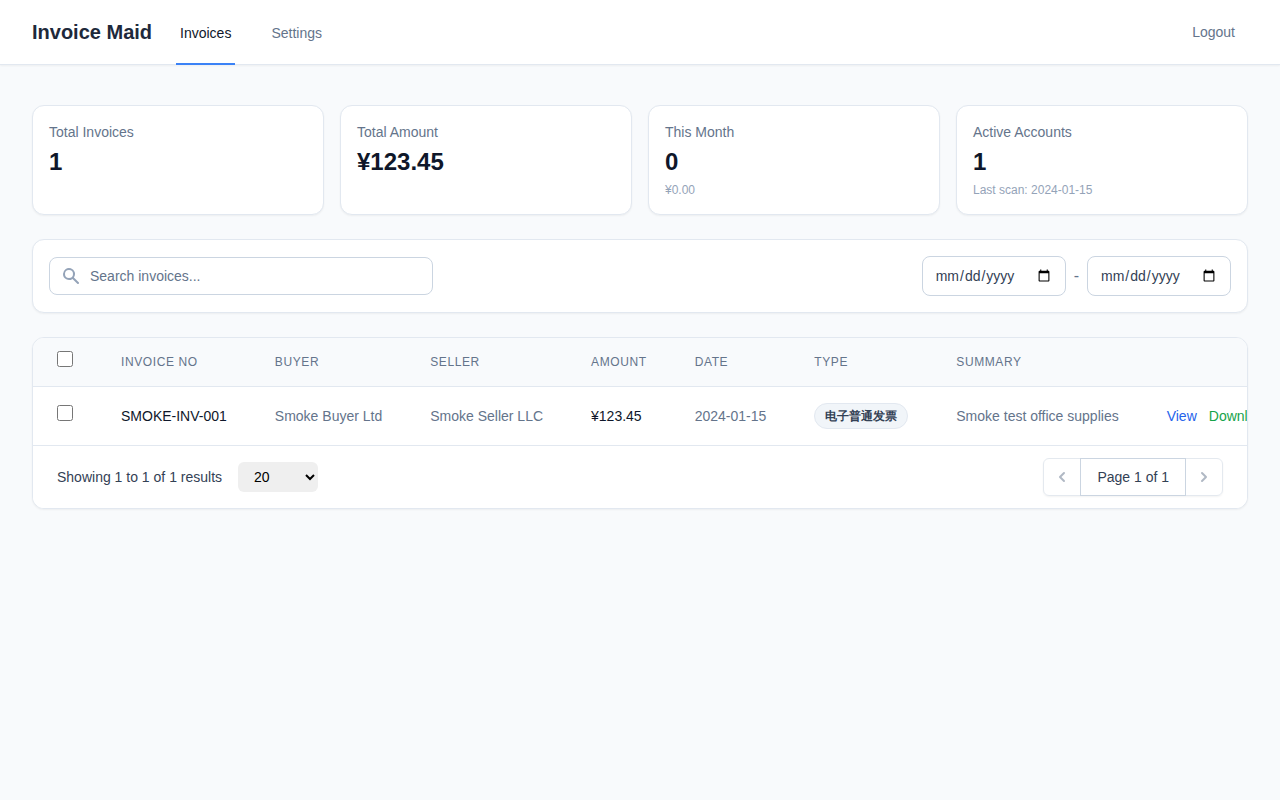
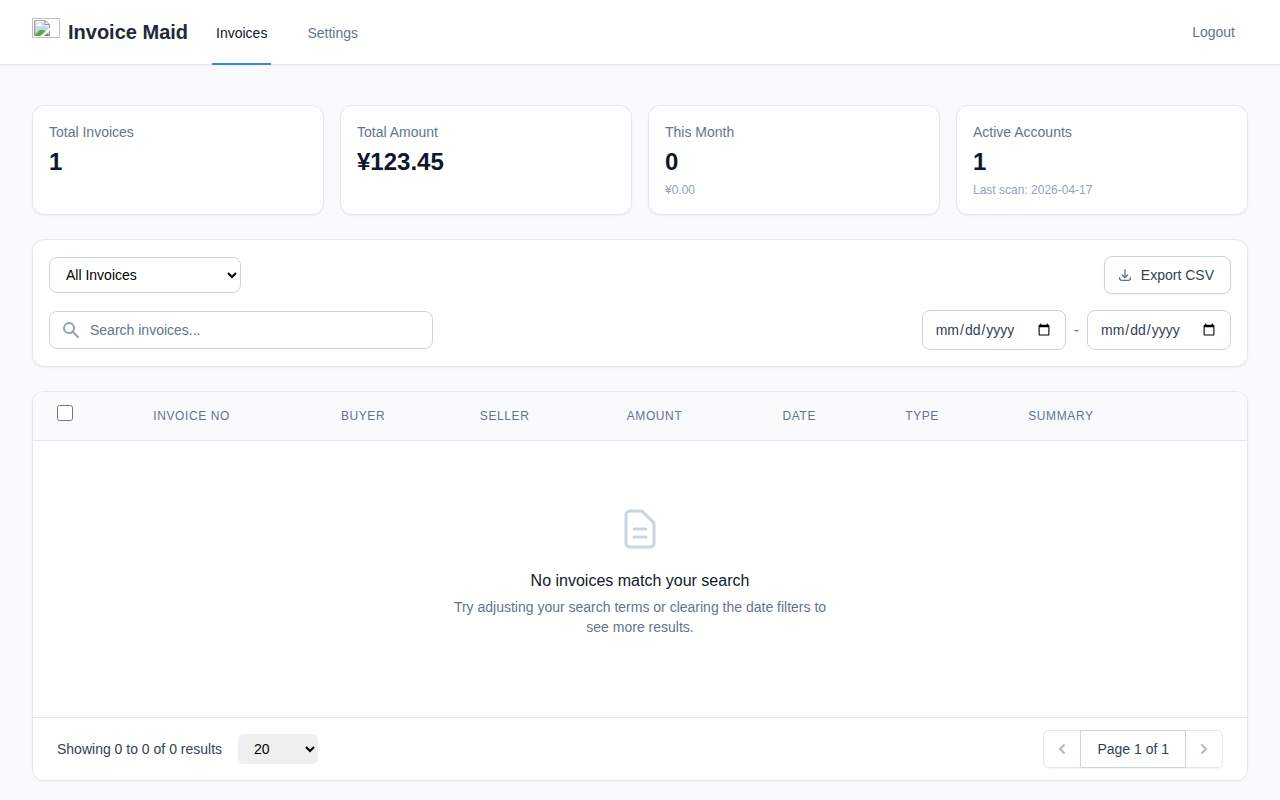
docs: rewrite README for v0.2.0 with AI settings screenshot and full feature coverage
Ultraworked with [Sisyphus](https://github.com/code-yeongyu/oh-my-openagent)

diff --git a/README.md b/README.md
@@ -14,6 +14,7 @@
 </p>
 
 <p align="center">
+  <img src="https://img.shields.io/badge/version-0.2.0-blue" alt="v0.2.0">
   <img src="https://img.shields.io/badge/Python-3.11%2B-3776AB?logo=python&logoColor=white" alt="Python 3.11+">
   <img src="https://img.shields.io/badge/FastAPI-Backend-009688?logo=fastapi&logoColor=white" alt="FastAPI">
   <img src="https://img.shields.io/badge/Vue-3-42B883?logo=vue.js&logoColor=white" alt="Vue 3">
@@ -29,9 +30,9 @@ Invoice Maid automates the boring part of invoice handling:
 
 - Pull invoice emails from **IMAP**, **POP3**, **QQ Mail**, and **Microsoft Outlook**
 - Use an **OpenAI-compatible LLM** to classify emails and extract invoice fields
-- Parse **PDF**, **XML**, and **OFD (数电票)** invoice formats
-- Search and review invoices from a modern web UI
-- Download one invoice or export many as a ZIP
+- Parse **PDF**, **XML**, and **OFD (数电票)** invoice formats — including download links in email body
+- Search, review, correct, and export invoices from a modern web UI
+- Download one invoice, batch-export as ZIP, or export filtered lists as CSV
 
 It is designed for **single-user**, **self-hosted** deployment with minimal operational overhead.
 
@@ -46,8 +47,10 @@ It is designed for **single-user**, **self-hosted** deployment with minimal oper
 - [Quick Start](#quick-start)
 - [Configuration Reference](#configuration-reference)
 - [Email Account Setup](#email-account-setup)
+- [Webhooks](#webhooks)
 - [Deployment](#deployment)
 - [Development](#development)
+- [Roadmap](#roadmap)
 - [License](#license)
 
 ---
@@ -55,20 +58,32 @@ It is designed for **single-user**, **self-hosted** deployment with minimal oper
 ## Features
 
 ### Email ingestion
-- **Automated Email Scanning**: Supports IMAP, POP3, QQ Mail (via auth code), and Microsoft Outlook (via OAuth2 device code flow).
-- **Scheduled Processing**: Configurable periodic scanning intervals with APScheduler.
+- **Automated Email Scanning** — IMAP, POP3, QQ Mail (via auth code), Microsoft Outlook (OAuth2 device code flow)
+- **Scheduled Processing** — configurable scan intervals via APScheduler
+- **Body Link Downloads** — follows download links in email body to retrieve invoices
+- **Extraction Audit Log** — per-email tracking of why each message was saved, skipped, or failed
 
 ### Invoice intelligence
-- **AI Classification & Extraction**: Uses OpenAI-compatible LLMs to classify emails and extract structured data from invoices.
-- **Multi-format Support**: Handles PDF, XML, and OFD (数电票) invoice formats.
-- **QR Code Decoding**: Decodes QR codes from Chinese VAT invoices for accurate field mapping.
-- **Structured Data**: Extracts buyer, seller, total amount, date, invoice type, and AI-summarized item descriptions.
+- **AI Classification & Extraction** — OpenAI-compatible LLMs classify emails and extract structured invoice data
+- **Multi-format Parsing** — PDF, XML, and OFD (数电票) with QR code decoding
+- **Manual Correction** — edit any extracted field inline with a full audit trail
+- **Confidence Scoring** — extraction confidence and method displayed per invoice
+- **Duplicate Detection** — composite dedup on invoice number + email UID + attachment filename
 
-### Search & UI
-- **Advanced Search**: Full-text search via SQLite FTS5 and optional semantic search using vector embeddings.
-- **Web UI**: Modern dashboard for invoice searching, date filtering, PDF previews, and batch ZIP downloads.
-- **Secure Access**: Single-user admin authentication with JWT.
-- **Operational Guardrails**: Login rate limiting and a rich health endpoint for runtime visibility.
+### Search, export & analytics
+- **Full-text Search** — SQLite FTS5 with optional sqlite-vec semantic search
+- **Saved Views** — persist named filter combinations for quick daily access
+- **CSV Export** — export filtered invoice lists with one click
+- **Spend Analytics** — monthly spend, top sellers, invoice counts by type and extraction method
+- **Similar Invoices** — "more like this" discovery via embeddings or FTS5 fallback
+- **Batch Actions** — select multiple invoices for ZIP download or bulk deletion
+
+### Operations & security
+- **AI Model Settings UI** — manage LLM provider, API key, model selection, and embedding config from the browser
+- **Rate Limiting** — brute-force protection (10 req/min/IP) on login
+- **Rich Health Endpoint** — reports DB, scheduler, sqlite-vec, invoice count, and last scan time
+- **Outbound Webhooks** — `invoice.created` events with HMAC-SHA256 signed payloads
+- **Project Branding** — favicon, login icon, and nav bar logo
 
 ---
 
@@ -76,15 +91,13 @@ It is designed for **single-user**, **self-hosted** deployment with minimal oper
 
 ### Login
 
-A clean split-screen login page with product features on the left and a simple sign-in form on the right.
-
 <p align="center">
   <img src="assets/screenshots/01-login.png" alt="Login page" width="900">
 </p>
 
 ### Invoice Dashboard
 
-After login, the main invoices page shows summary stats at the top, a search bar with date filters, and the invoice table with bulk actions. Select invoices, download them as a ZIP, or open individual details.
+Summary stats, search with date filters, invoice table with batch actions, saved views, and CSV export.
 
 <p align="center">
   <img src="assets/screenshots/02-invoices.png" alt="Invoice dashboard" width="900">
@@ -92,7 +105,7 @@ After login, the main invoices page shows summary stats at the top, a search bar
 
 ### Invoice Detail
 
-Click any invoice to see its full structured data: buyer, seller, amount, date, type, confidence score, and a PDF preview. Non-PDF formats show a download prompt instead.
+Full structured data with inline editing, confidence badge, extraction method, and PDF preview.
 
 <p align="center">
   <img src="assets/screenshots/03-invoice-detail.png" alt="Invoice detail" width="900">
@@ -100,7 +113,7 @@ Click any invoice to see its full structured data: buyer, seller, amount, date, 
 
 ### Email Account Settings
 
-Configure email accounts for automatic scanning. Each account shows its protocol, scan interval, and last scan time. Add, edit, or delete accounts from the same page.
+Add, edit, test, and manage email accounts for automatic scanning.
 
 <p align="center">
   <img src="assets/screenshots/04-settings.png" alt="Email account settings" width="900">
@@ -108,10 +121,18 @@ Configure email accounts for automatic scanning. Each account shows its protocol
 
 ### Scan Operations
 
-Trigger a full scan manually, or review recent scan logs with per-account status, email counts, and invoice yield.
+Manual scan trigger, scan history with per-email extraction audit logs.
 
 <p align="center">
   <img src="assets/screenshots/05-scan-operations.png" alt="Scan operations" width="900">
+</p>
+
+### AI Model Configuration
+
+Configure your LLM provider, API key, and model selection — all from the browser. Retrieve available models directly from your provider's API.
+
+<p align="center">
+  <img src="assets/screenshots/06-ai-settings.png" alt="AI model settings" width="900">
 </p>
 
 ---
@@ -120,21 +141,21 @@ Trigger a full scan manually, or review recent scan logs with per-account status
 
 | Layer | Stack |
 |------|-------|
-| Backend | FastAPI, SQLAlchemy, APScheduler |
+| Backend | FastAPI, SQLAlchemy 2.0, APScheduler, slowapi |
 | Frontend | Vue 3, Vite, Tailwind CSS, Pinia |
-| Database | SQLite, FTS5, sqlite-vec |
+| Database | SQLite (WAL), FTS5, sqlite-vec |
 | AI | OpenAI-compatible API, Instructor |
-| Parsing | pdfplumber, PyMuPDF, easyofd, lxml |
+| Parsing | pdfplumber, PyMuPDF, easyofd, lxml, pyzbar |
 
 ---
 
 ## Prerequisites
 
 - Python 3.11+
-- Node.js 18+ (for frontend development only)
+- Node.js 18+ (for frontend development only — pre-built dist/ included)
 - System packages:
-  - `libzbar0` — required for QR code decoding
-  - `fonts-noto-cjk` — optional, recommended for proper Chinese rendering
+  - `libzbar0` — QR code decoding
+  - `fonts-noto-cjk` — optional, recommended for Chinese rendering
 
 ---
 
@@ -156,7 +177,7 @@ pip install -e .
 ### 3. Configure the app
 ```bash
 cp .env.example .env
-# Edit .env with your settings
+# Edit .env — at minimum set the 5 required keys below
 ```
 
 ### 4. Generate the admin password hash
@@ -171,7 +192,7 @@ Paste the generated hash into `ADMIN_PASSWORD_HASH` in `.env`.
 uvicorn app.main:app --reload
 ```
 
-Then open `http://localhost:8000`.
+Open `http://localhost:8000`, log in, then configure your email accounts and AI model from the Settings page.
 
 ---
 
@@ -179,34 +200,58 @@ Then open `http://localhost:8000`.
 
 | Key | Description | Example | Required |
 |-----|-------------|---------|----------|
-| `DATABASE_URL` | SQLAlchemy database connection string | `sqlite+aiosqlite:///./data/invoices.db` | Yes |
+| `DATABASE_URL` | SQLAlchemy async connection string | `sqlite+aiosqlite:///./data/invoices.db` | Yes |
 | `ADMIN_PASSWORD_HASH` | Bcrypt hash of the admin password | `$2b$12$...` | Yes |
-| `JWT_SECRET` | Secret key for signing JWT tokens | `32-char-random-string` | Yes |
+| `JWT_SECRET` | Secret for signing JWT tokens | `32-char-random-string` | Yes |
 | `LLM_BASE_URL` | Base URL for OpenAI-compatible API | `https://api.openai.com/v1` | Yes |
 | `LLM_API_KEY` | API key for the LLM service | `sk-...` | Yes |
-| `STORAGE_PATH` | Directory to store downloaded invoices | `./data/invoices` | No |
-| `JWT_EXPIRE_MINUTES` | Token expiration time in minutes | `1440` | No |
-| `LLM_MODEL` | Model ID for classification and extraction | `gpt-4o-mini` | No |
-| `LLM_EMBED_MODEL` | Model ID for generating embeddings | `text-embedding-3-small` | No |
-| `EMBED_DIM` | Vector dimensions for embeddings | `1536` | No |
-| `SCAN_INTERVAL_MINUTES` | Minutes between email scans | `60` | No |
-| `SQLITE_VEC_ENABLED` | Enable or disable semantic search | `true` | No |
+| `STORAGE_PATH` | Invoice file storage directory | `./data/invoices` | No |
+| `JWT_EXPIRE_MINUTES` | Token expiration (minutes) | `1440` | No |
+| `LLM_MODEL` | Model for classification/extraction | `gpt-4o-mini` | No |
+| `LLM_EMBED_MODEL` | Model for embeddings | `text-embedding-3-small` | No |
+| `EMBED_DIM` | Embedding vector dimensions | `1536` | No |
+| `SCAN_INTERVAL_MINUTES` | Minutes between scans | `60` | No |
+| `SQLITE_VEC_ENABLED` | Enable semantic search | `true` | No |
+| `WEBHOOK_URL` | Outbound webhook endpoint | `https://example.com/hook` | No |
+| `WEBHOOK_SECRET` | HMAC-SHA256 signing key for webhooks | `your-secret` | No |
+
+AI model settings can also be managed from the **Settings > AI 模型** page in the web UI. Database-stored values override `.env` defaults.
 
 ---
 
 ## Email Account Setup
 
 ### IMAP / POP3
-Use your provider’s server address, port, username, and password/app password.
+Use your provider's server address, port, username, and password/app password.
 
 ### QQ Mail
-1. Log in to QQ Mail web interface
-2. Open **Settings > Account**
-3. Enable **POP3/IMAP Service**
-4. Generate a **16-character Authorization Code** and use it as the password
+1. Log in to QQ Mail web interface → **Settings > Account**
+2. Enable **POP3/IMAP Service**
+3. Generate a **16-character Authorization Code** and use it as the password
 
 ### Microsoft Outlook
-Invoice Maid uses **OAuth2 Device Code Flow**. On first scan, check the application logs for the device code and verification URL (for example `https://microsoft.com/devicelogin`), then complete authorization in a browser.
+Invoice Maid uses **OAuth2 Device Code Flow**. On first scan, check the application logs for the device code and verification URL (`https://microsoft.com/devicelogin`), then complete authorization in a browser.
+
+---
+
+## Webhooks
+
+When `WEBHOOK_URL` is configured, Invoice Maid sends a `POST` request for each new invoice:
+
+```json
+{
+  "event": "invoice.created",
+  "invoice_no": "12345678",
+  "buyer": "Buyer Corp",
+  "seller": "Seller Inc",
+  "amount": "1234.56",
+  "invoice_date": "2026-04-17",
+  "invoice_type": "增值税电子普通发票",
+  "confidence": 0.92
+}
+```
+
+The `X-Signature-256` header contains an HMAC-SHA256 signature of the JSON body using `WEBHOOK_SECRET`, following the GitHub webhook signature format. Delivery failures are logged and never block the scan pipeline.
 
 ---
 
@@ -216,31 +261,23 @@ Invoice Maid uses **OAuth2 Device Code Flow**. On first scan, check the applicat
 > Run the backend with `--workers 1`. APScheduler runs in-process, and multiple workers will duplicate scheduled jobs.
 
 ### LAN tryout
-To test Invoice Maid from another device on your local network, bind Uvicorn to all interfaces:
-
 ```bash
 cd backend
 uvicorn app.main:app --host 0.0.0.0 --port 8000 --workers 1
 ```
 
-Then open `http://<your-lan-ip>:8000` from another machine on the same network.
-
-Notes:
-- Make sure your firewall allows inbound traffic on port `8000`.
-- Keep `--workers 1` to avoid duplicate scheduler jobs.
-- If you are testing without a reverse proxy, only do this on a trusted LAN.
+Open `http://<your-lan-ip>:8000` from another device. Only do this on a trusted LAN without a reverse proxy.
 
 ### systemd
-Copy `deploy/invoice-maid.service` to `/etc/systemd/system/`, update the placeholders (`{{USER}}`, `{{INSTALL_DIR}}`, `{{VENV}}`), then run:
+Copy `deploy/invoice-maid.service` to `/etc/systemd/system/`, update placeholders, then:
 
 ```bash
 systemctl daemon-reload
-systemctl enable invoice-maid
-systemctl start invoice-maid
+systemctl enable --now invoice-maid
 ```
 
 ### Nginx
-Use `deploy/invoice-maid.nginx.conf` as your site template. Replace `{{DOMAIN}}` with your real domain and update SSL certificate paths.
+Use `deploy/invoice-maid.nginx.conf` as your site template. Replace `{{DOMAIN}}` and SSL paths.
 
 ---
 
@@ -259,6 +296,19 @@ cd frontend
 npm install
 npm run dev
 ```
+
+### E2E smoke tests
+```bash
+cd frontend
+npx playwright install chromium
+npm run test:e2e
+```
+
+---
+
+## Roadmap
+
+See [ROADMAP.md](ROADMAP.md) for planned features and version history.
 
 ---
 
